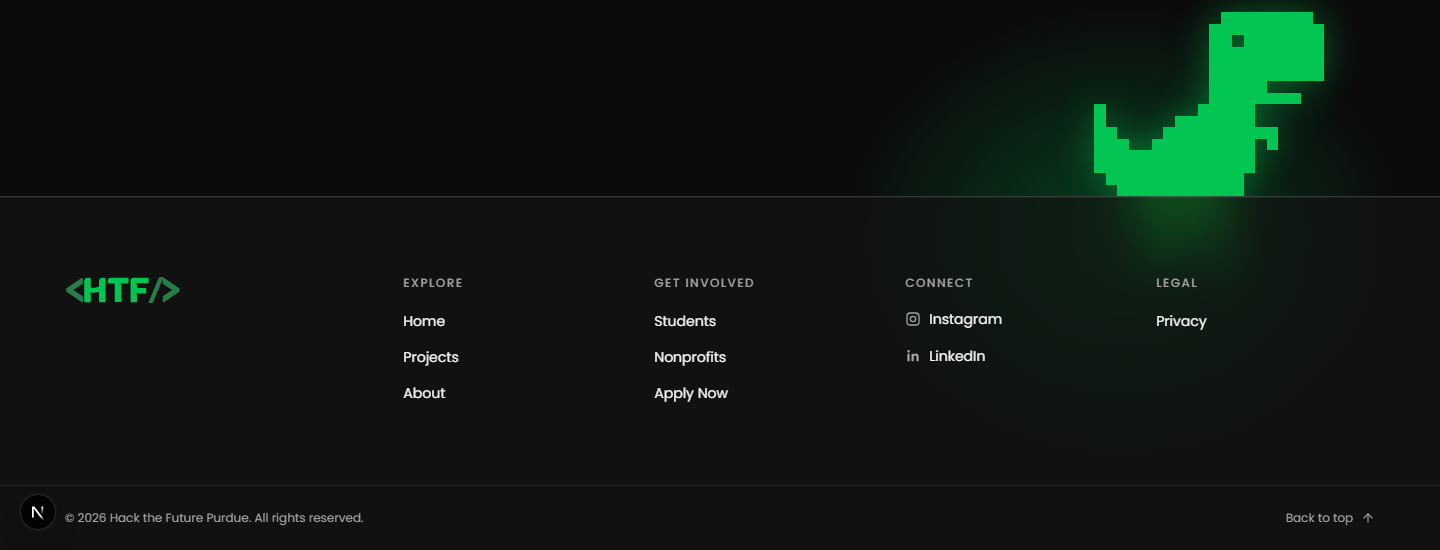
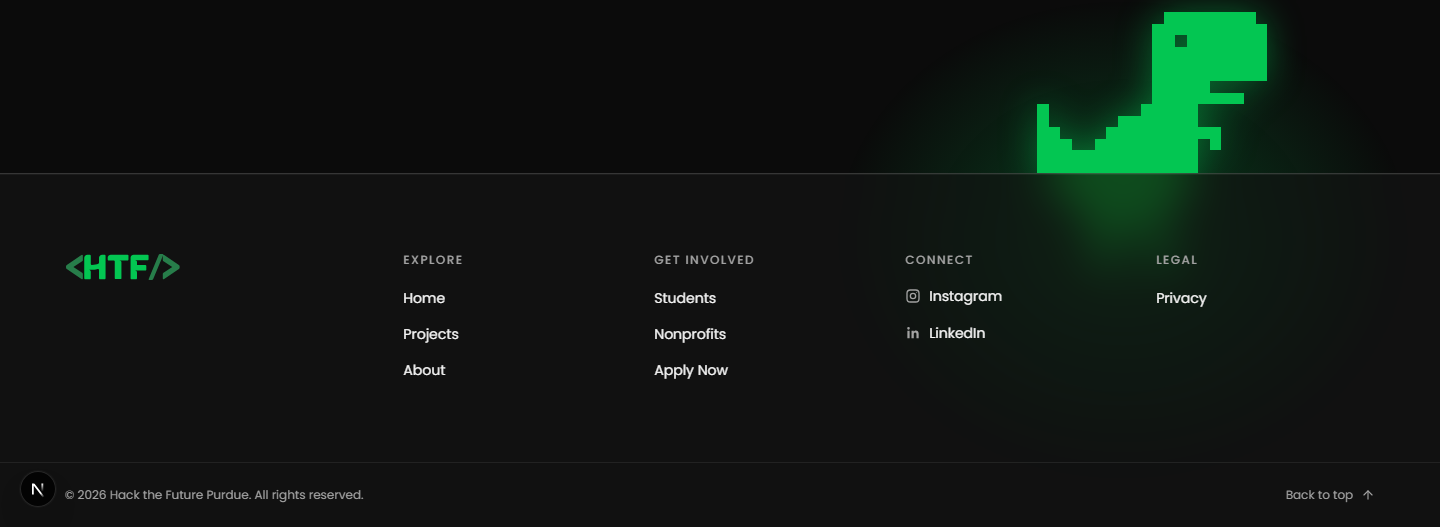
fix(layout): footer T-rex slightly further left, strip at 0.75 of its width
Claude-Session: https://claude.ai/code/session_011Bwqbz1xrnbmBZhafCKopb

diff --git a/src/components/layout/SiteFooter.tsx b/src/components/layout/SiteFooter.tsx
@@ -47,9 +47,9 @@ export function SiteFooter() {
         aria-hidden="true"
         className="pointer-events-none absolute top-0 right-[-4rem] h-[30rem] w-[36rem] bg-[radial-gradient(closest-side,rgba(3,198,82,0.28),transparent)] sm:right-[2%]"
       />
-      <PixelDino className="absolute top-3 right-4 z-0 w-(--dino-w) sm:right-[8%]" />
+      <PixelDino className="absolute top-3 right-8 z-0 w-(--dino-w) sm:right-[12%]" />
 
-      <div className="relative z-10 mt-[calc(var(--dino-w)*0.85)] border-t border-line-strong glass [--glass-alpha:72%]">
+      <div className="relative z-10 mt-[calc(var(--dino-w)*0.75)] border-t border-line-strong glass [--glass-alpha:72%]">
         <div className="container-max container-x py-14 md:py-20">
           <div className="grid gap-12 lg:grid-cols-[1.4fr_repeat(4,1fr)] lg:gap-8">
             <div className="max-w-xs">

diff --git a/docs/PROGRESS.md b/docs/PROGRESS.md
@@ -71,10 +71,12 @@ dinosaur stays: it stays.
    `crispEdges`. The eye is the empty cell at row 2, column 12 and still blinks through the
    `anim-eyelid` rect. Same green (`text-green`), glow, rise-in and reduced-motion behaviour.
 2. `SiteFooter`: the footer sets `--dino-w: clamp(11rem, 16vw, 15rem)`; the dinosaur is that
-   wide (was `clamp(10rem, 16vw, 14rem)`) and the glass panel's top margin is
-   `calc(var(--dino-w) * 0.85)` (was 6rem / 7rem), so at every width the head, arm, tail and
-   body down to the belly sit in the open strip and only the legs are behind the glass (about
-   16 of the 22 rows show).
+   wide (was `clamp(10rem, 16vw, 14rem)`), sits at `right-8` / `sm:right-[12%]` (was
+   `right-4` / `sm:right-[8%]`, Ashton asked for it slightly further left) and the glass
+   panel's top margin is `calc(var(--dino-w) * 0.75)` (was 6rem / 7rem; Ashton chose 0.75
+   over a first 0.85), so at every width the head, arm, tail and body down to the belly sit in
+   the open strip and the belly's taper and the legs are behind the glass (14 of the 22 rows
+   show at 1440, 13.6 at 390).
 3. Checks: typecheck, lint, build, `pnpm a11y` on `/` (0 violations), footer captures at 1440
    and 390 in `docs/screenshots/session-11e/`.
 
